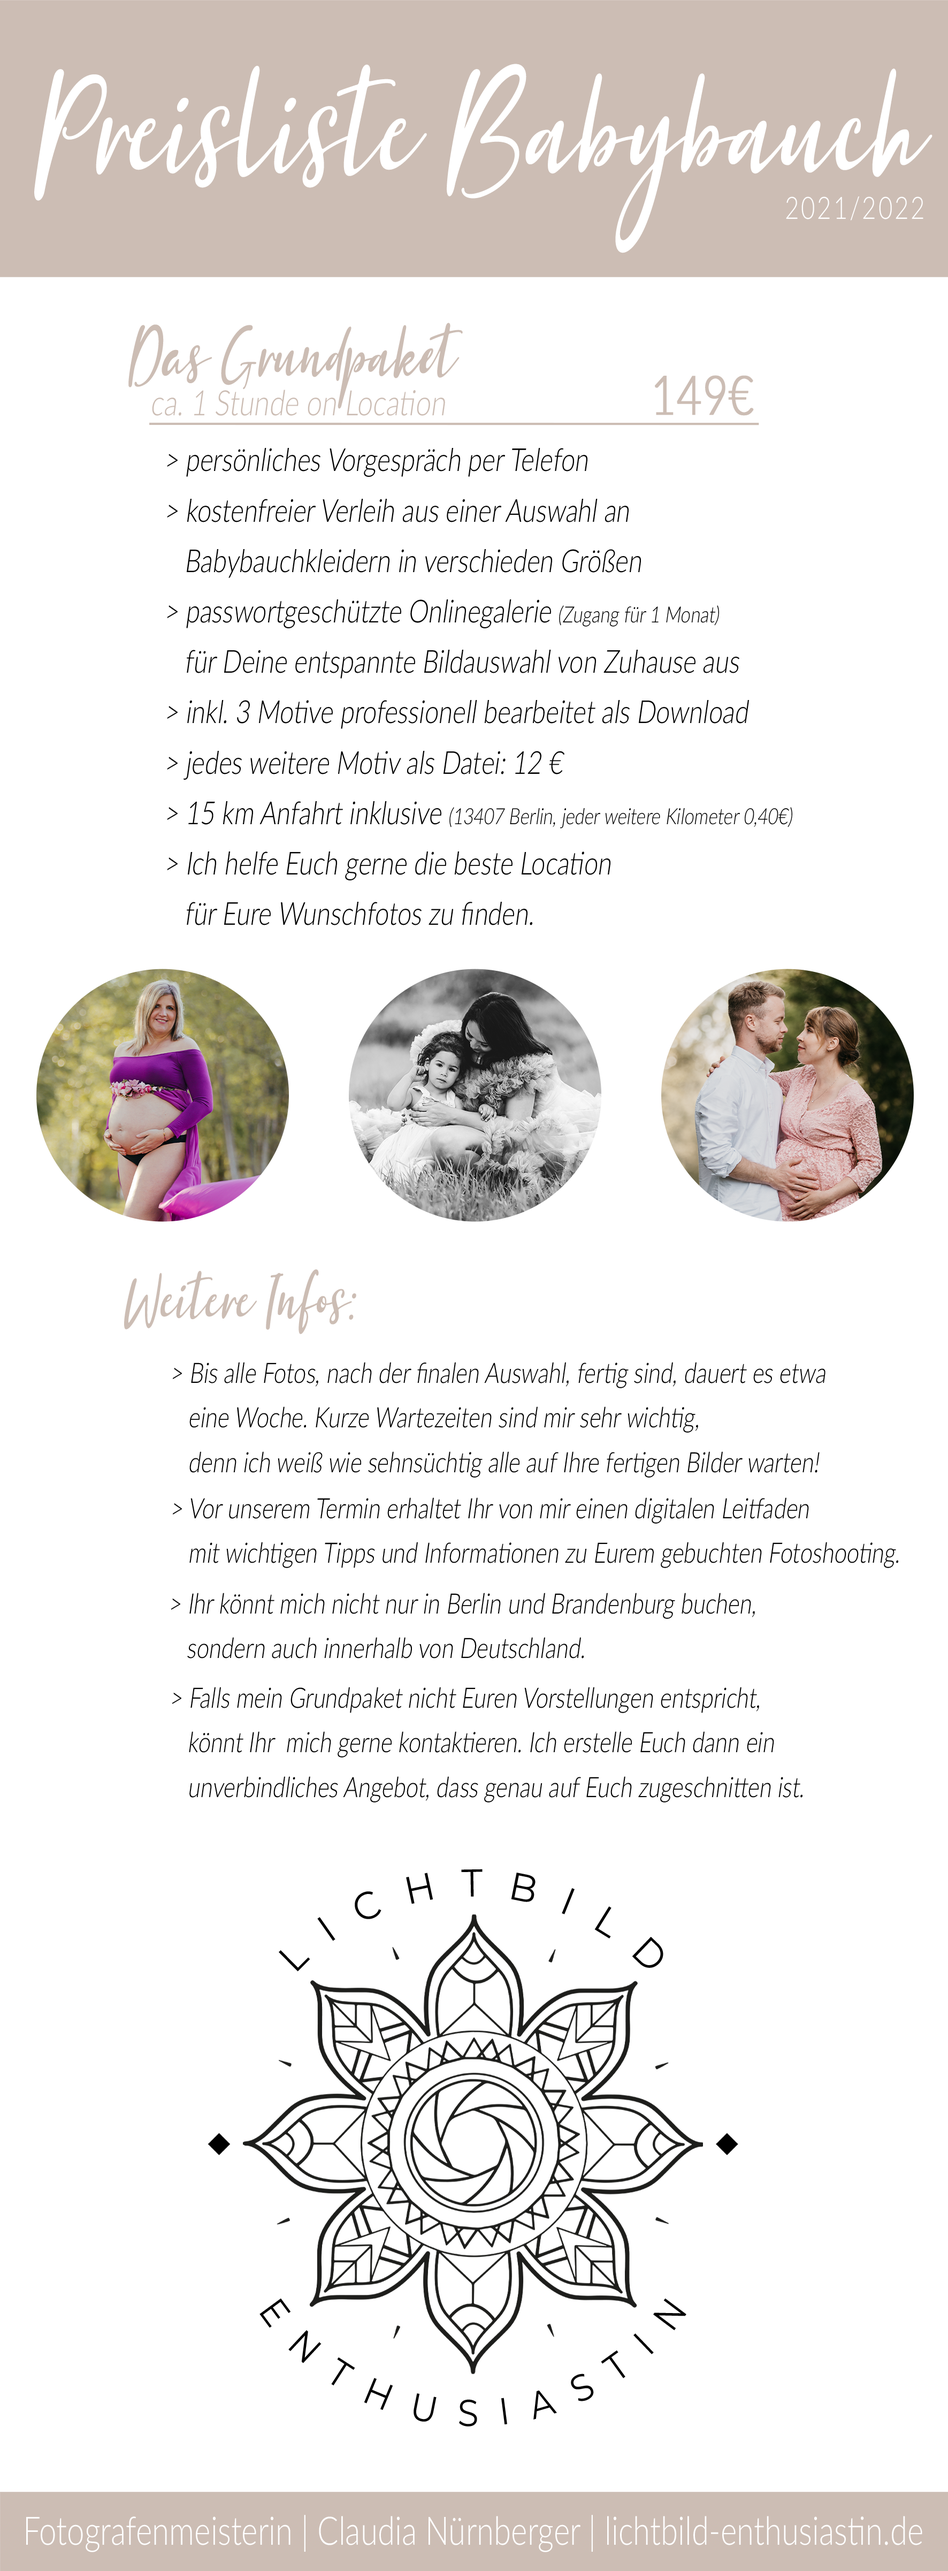
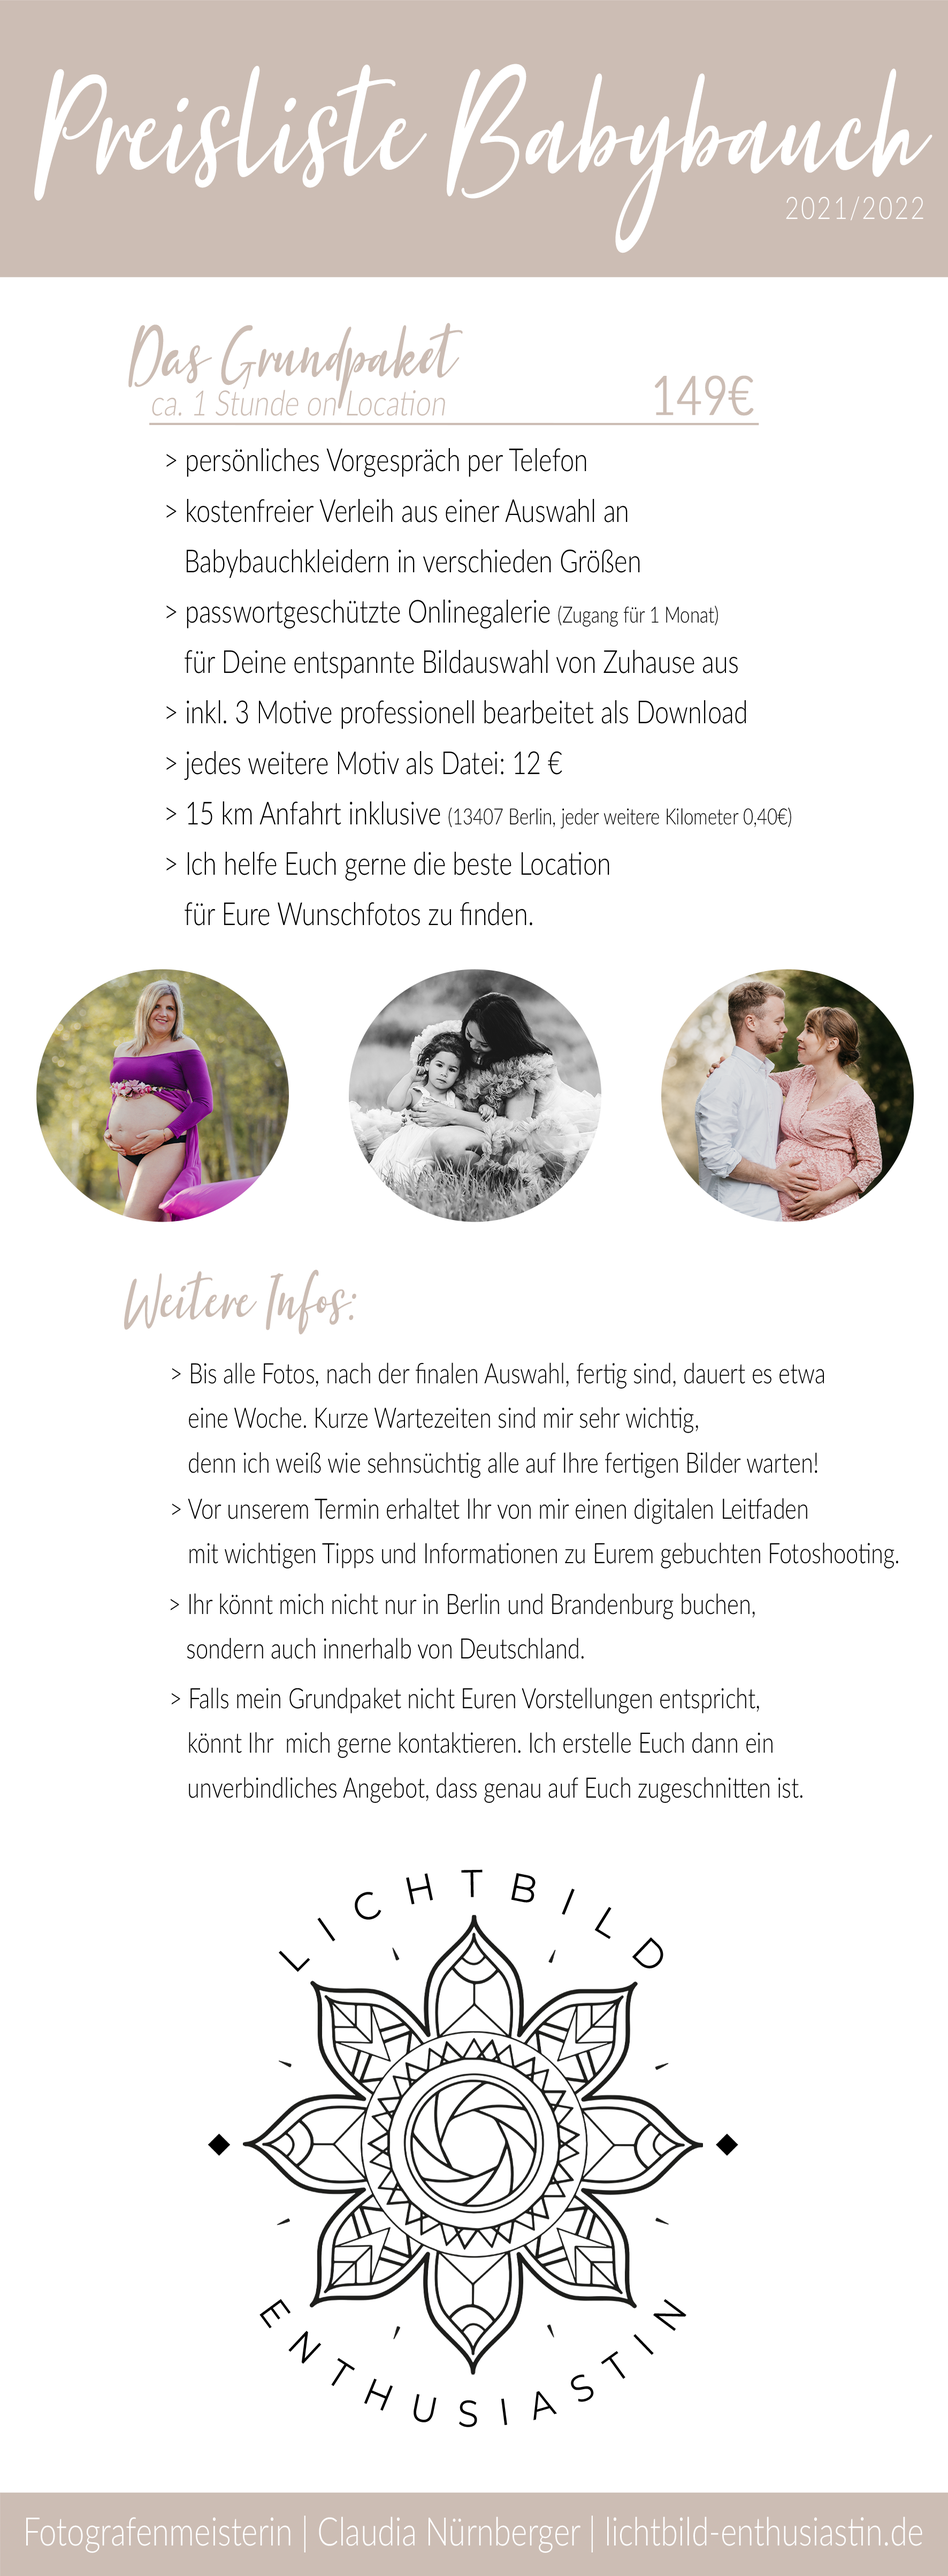
preislisten kursiv raus

diff --git a/src/pages/ueberMich.js b/src/pages/ueberMich.js
@@ -13,7 +13,7 @@ import "../../static/assets/css/fontawesome-all.min.css";
 import MyForm from "./kontakt";
 import MyFooter from "../components/footer";
 
-import ubermich from "../../static/img/PROFIL/UeberMich.jpeg";
+import ubermich from "../../static/img/PROFIL/UeberMich.png";
 
 const ueberMich = () => (
   <>
